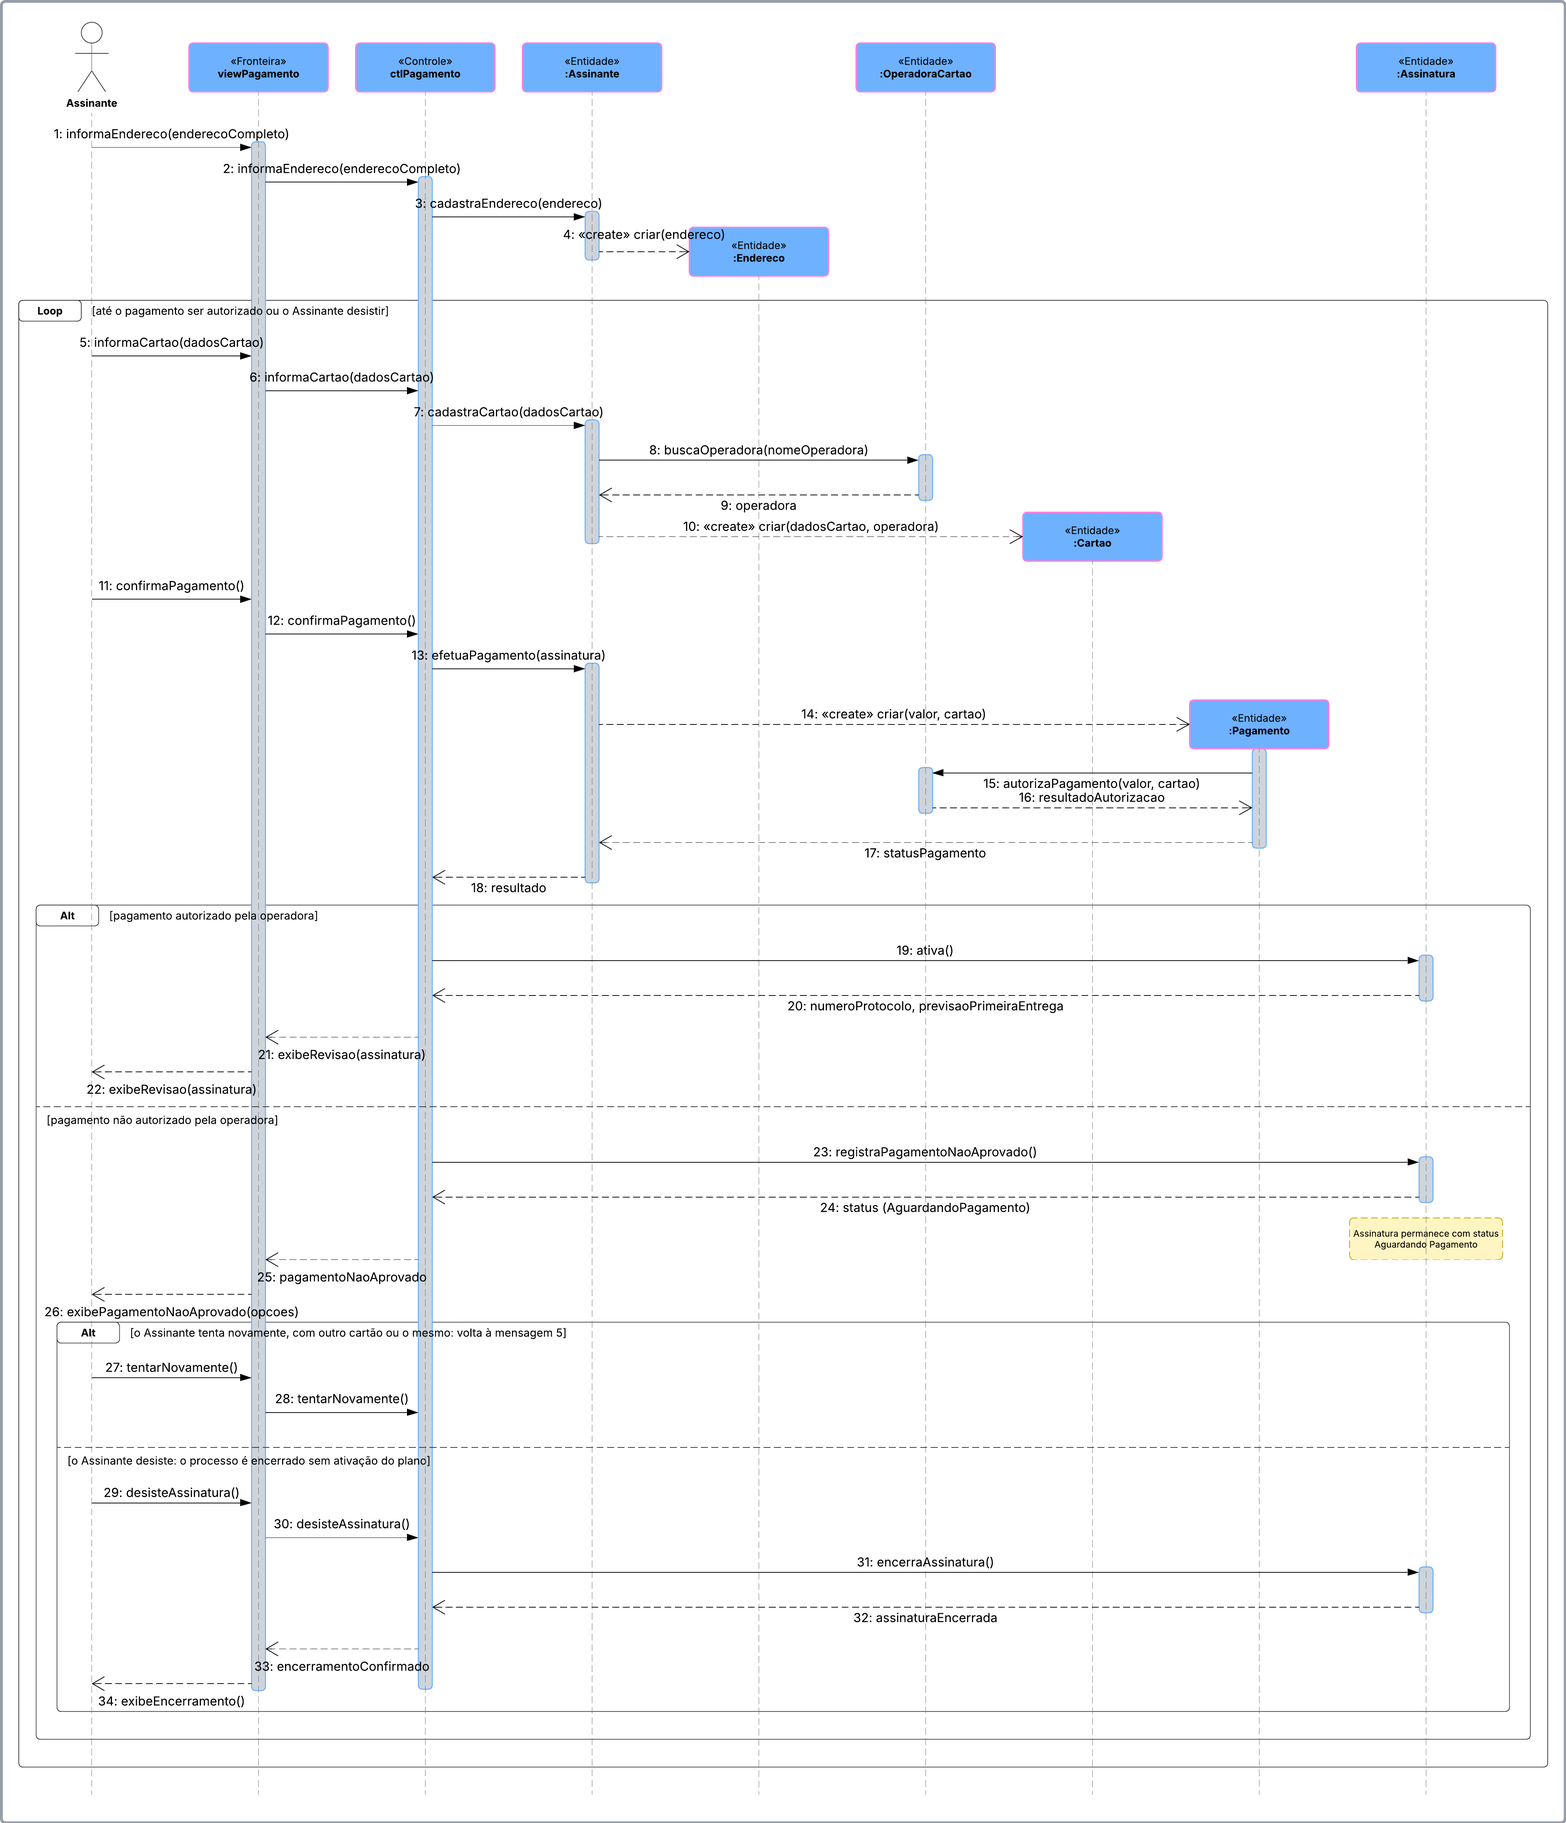
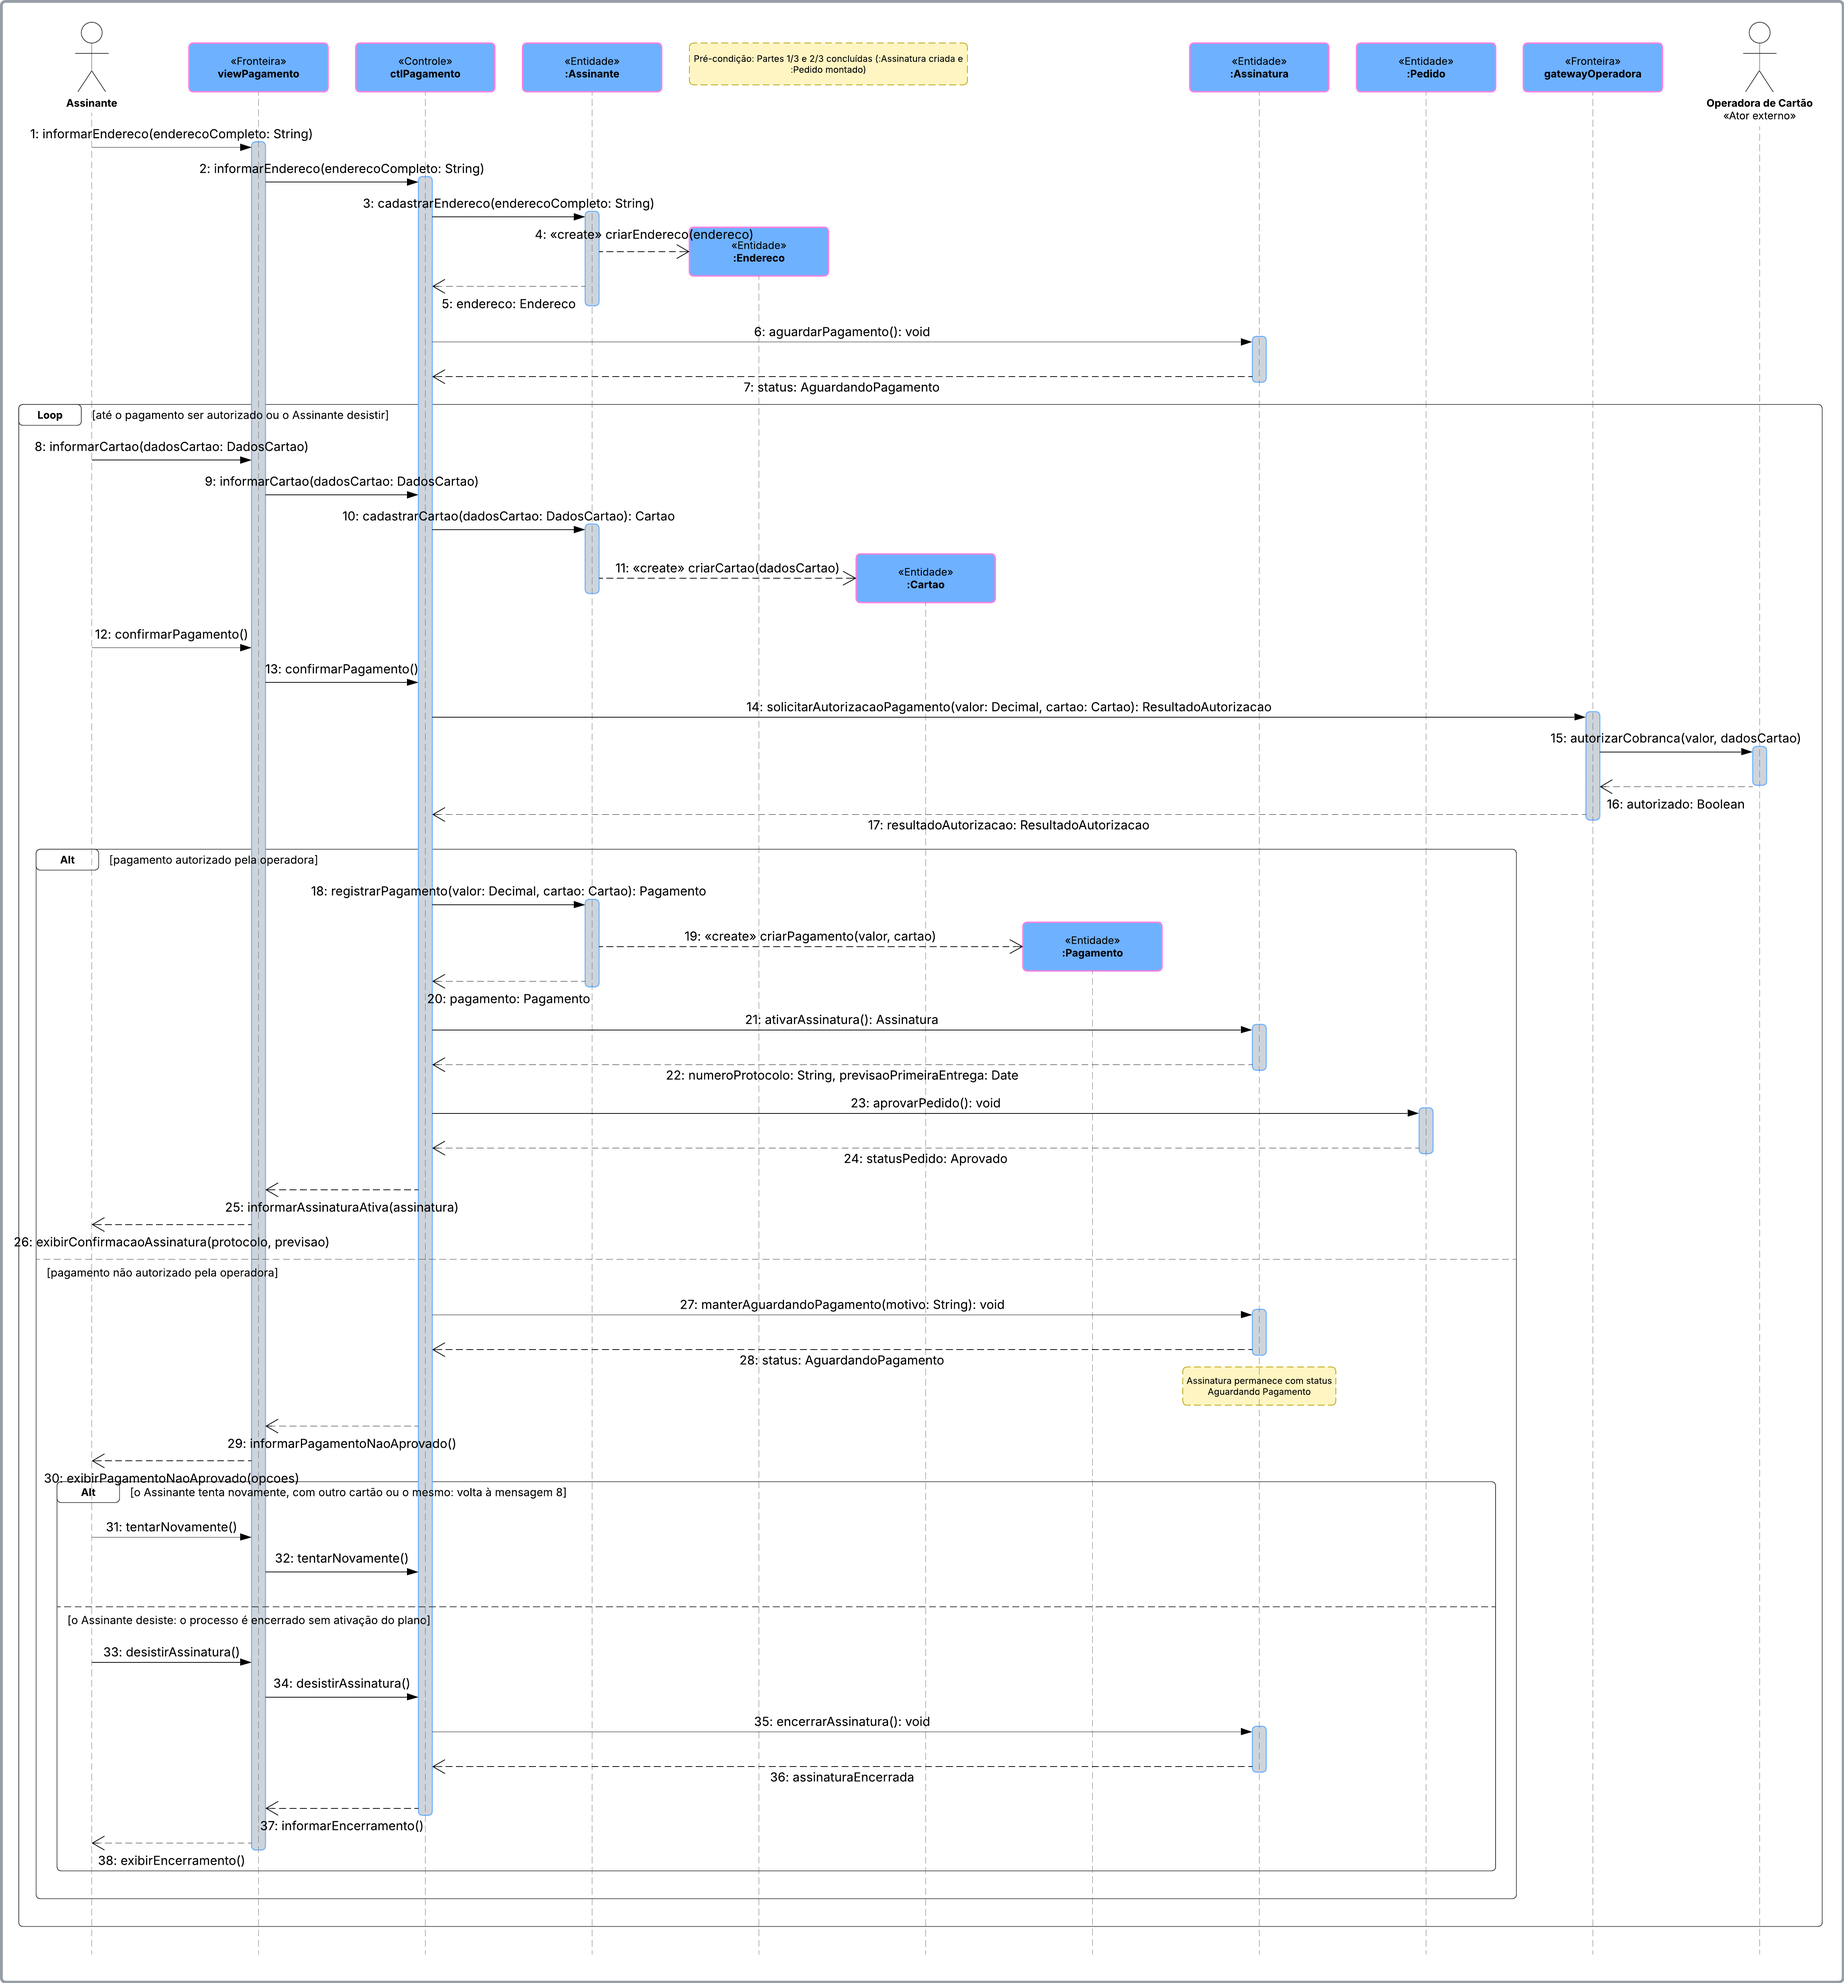
Correção dos diagramas de sequência

diff --git a/README.md b/README.md
@@ -58,22 +58,30 @@ O bloco N1 - Entrega 2 é composto pelo Diagrama de Classes de Domínio:
 
 O bloco N2 - Entrega 3 é composto pelos Diagramas de Sequência e Diagrama de Classes de Projeto
 
-### Diagrama de Sequência Onboarding
+### Notas
+
+Checklist: ![Checklist](checklist-entrega-3.pdf)
+
+### Diagramas de Sequência:
+
+#### Diagrama de Sequência Onboarding
 ![Diagrama de Sequência Onboarding](diagrama-de-sequencia-onboarding.png)
 
-### Diagrama de Sequência Preferências Alimentares e Pedido
+#### Diagrama de Sequência Preferências Alimentares e Pedido
 ![Diagrama de Sequência Preferências Alimentares e Pedido](diagrama-de-sequencia-preferencias-alimentares-pedido.png)
 
-### Diagrama de Sequência Endereço e Pagamento
+#### Diagrama de Sequência Endereço e Pagamento
 ![Diagrama de Sequência Endereço e Pagamento](diagrama-de-sequencia-endereco-pagamento.png)
 
-### Diagrama de Classes de Projeto Onboarding
+### Diagramas de Classes de Projeto:
+
+#### Diagrama de Classes de Projeto Onboarding
 ![Diagrama de Classes de Projeto](diagrama-de-classes-de-projeto-onboarding.png)
 
-### Diagrama de Classes de Projeto Preferências Alimentares e Pedido
+#### Diagrama de Classes de Projeto Preferências Alimentares e Pedido
 ![Diagrama de Classes de Projeto](diagrama-de-classes-de-projeto-preferencias-alimentares-pedido.png)
 
-### Diagrama de Classes de Projeto Endereço e Pagamento
+#### Diagrama de Classes de Projeto Endereço e Pagamento
 ![Diagrama de Classes de Projeto](diagrama-de-classes-de-projeto-endereco-pagamento.png)
 
 ---
